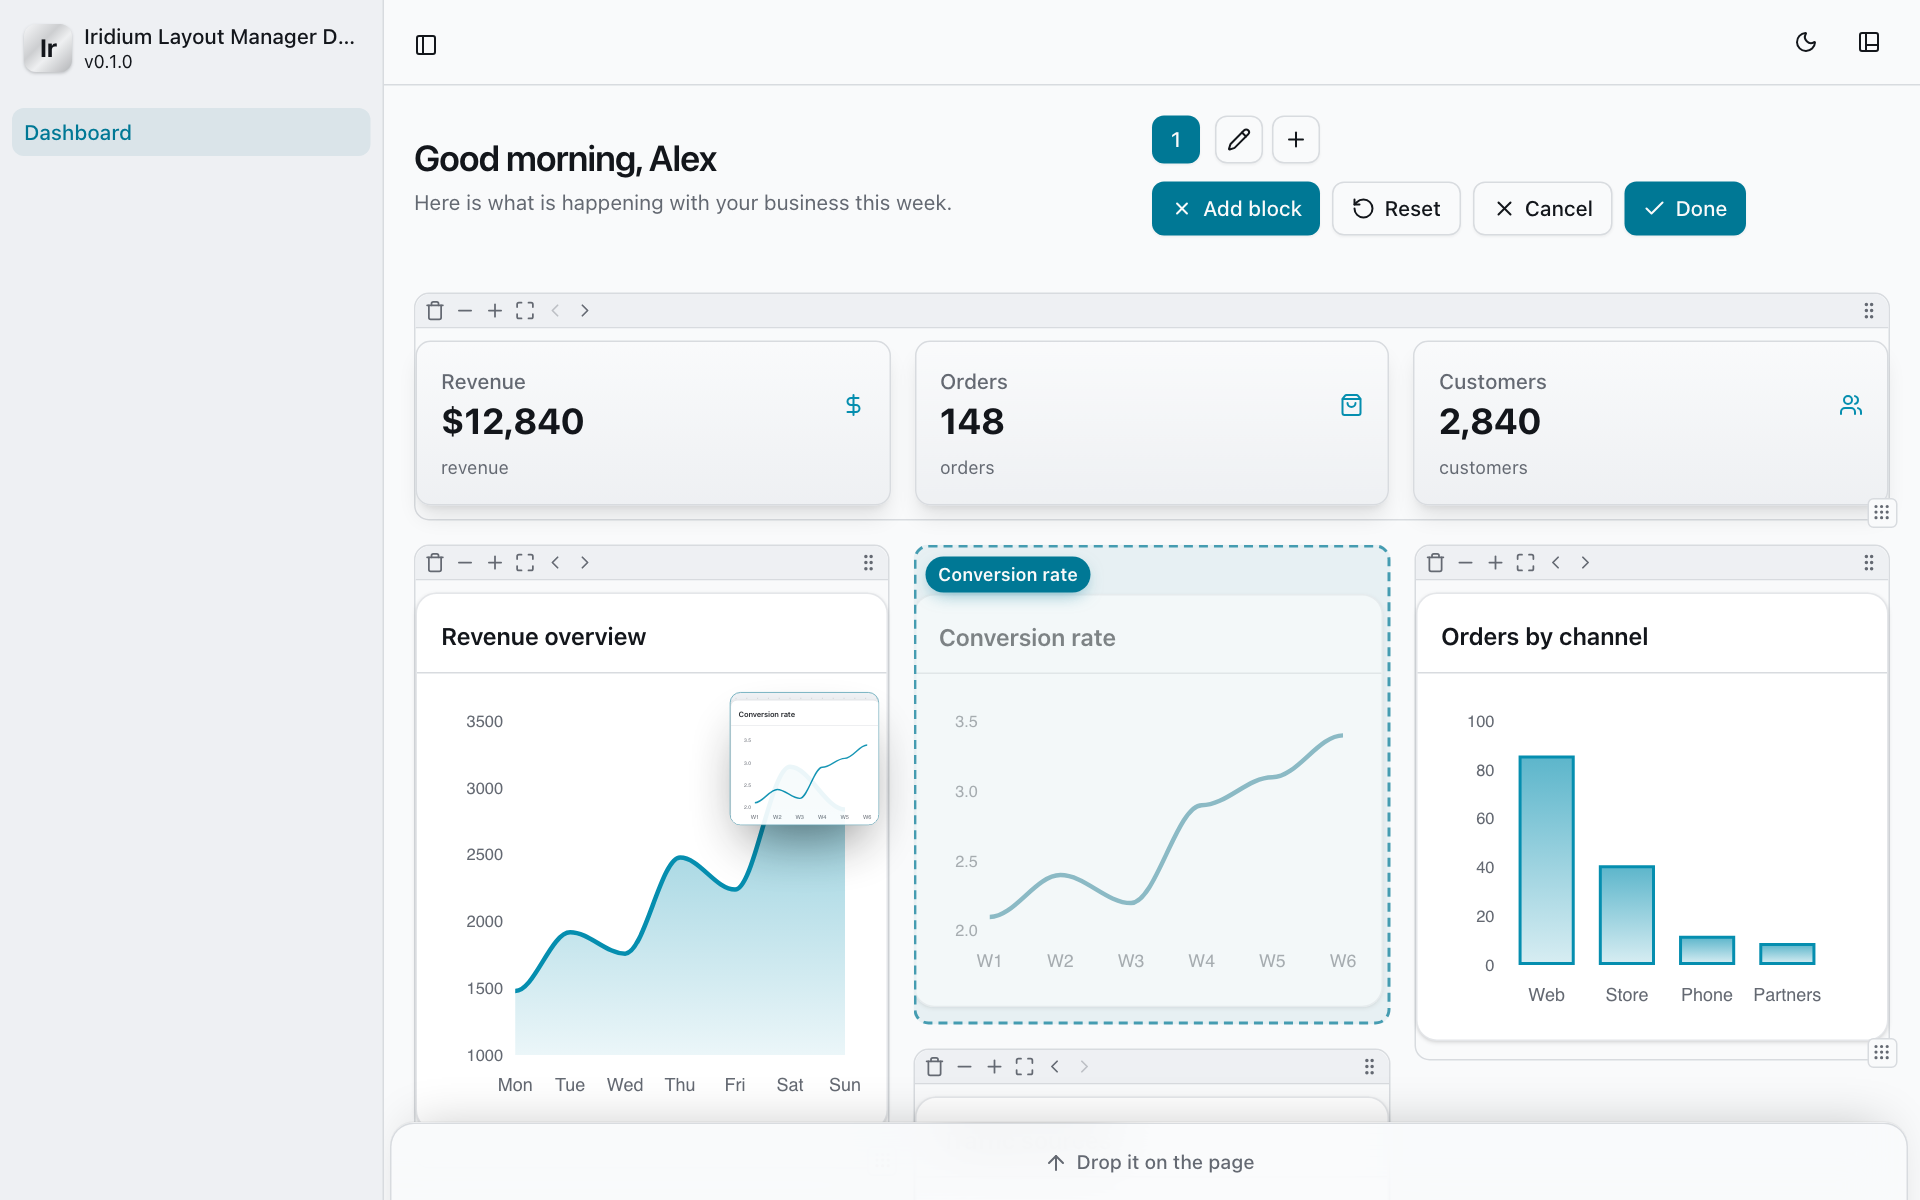
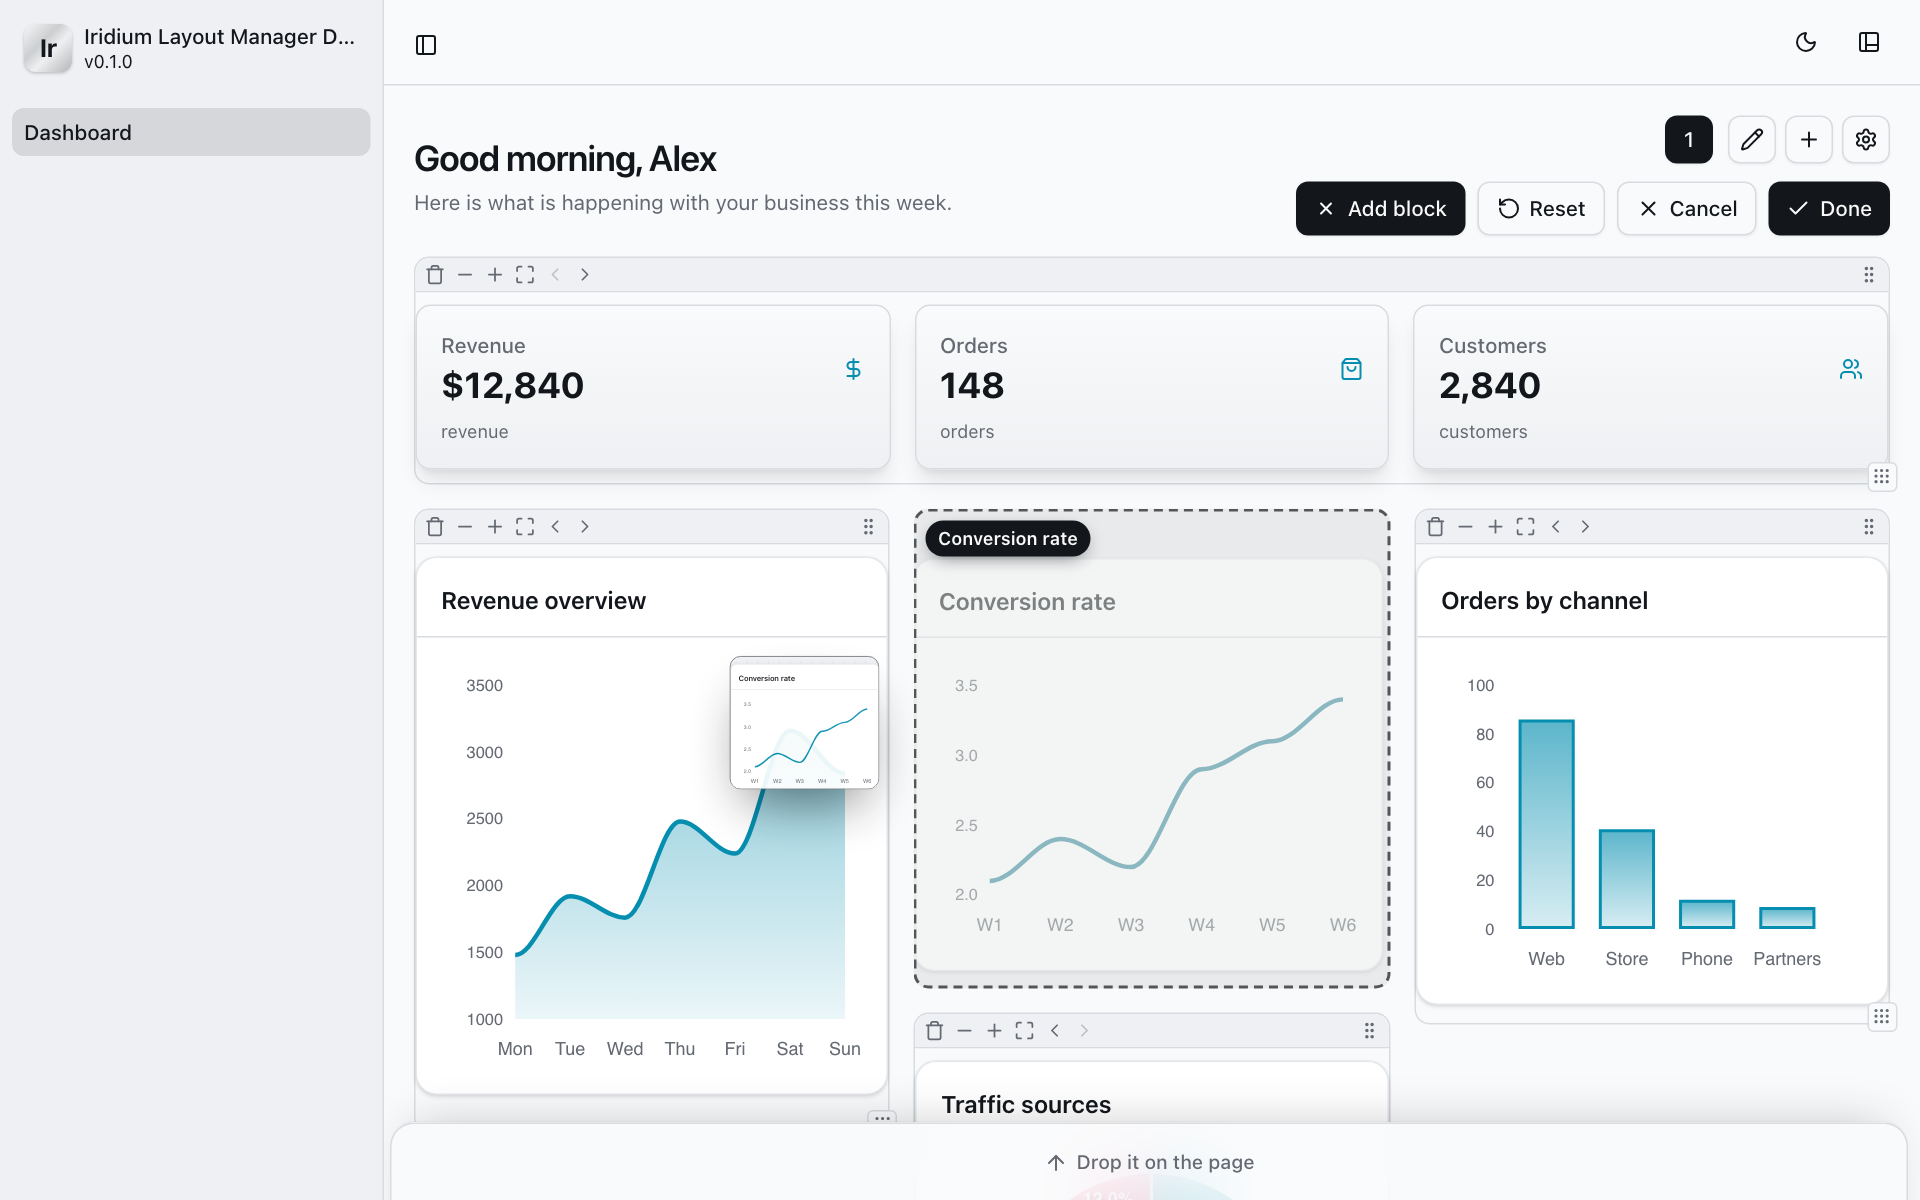
Show the page settings and the new header in the README
The gallery and drag screenshots are taken again from the demo app, which
has the page settings on: the toolbar's rows keep to the right edge, with
the gear after the page buttons, and the grid sits closer below the
header. A third screenshot shows the settings dialog, in the Page settings
section. The editing section counts applying the settings among what
loads a whole grid.

diff --git a/README.md b/README.md
@@ -223,6 +223,8 @@ Compact, Tight or None. A page starts with `GridColumns` and the spacing its
 vertical padding gives. Like any other edit, Done keeps the choice and Reset
 or Cancel undoes it.
 
+![The page settings dialog over a dashboard in edit mode: four columns and compact spacing chosen for the page shown](docs/images/settings.png)
+
 When a page's number of columns changes, a block as wide as the page stays as
 wide as the page; the others keep their span, up to the new number of columns.
 The choices are kept with each page in the `LayoutState`
@@ -273,8 +275,9 @@ Edits change the page in place: remove, resize, move and reorder answer 204
 one new block (placed at `at=I` when a card was dropped before the block at
 index I, else after the last). The other blocks are never re-rendered, so widgets keep their
 state (a table's sort and page, a chart) and focus stays where it was. Only
-switching, adding or removing a page, entering edit mode with unsaved changes,
-and Reset load a whole grid. Renaming a page answers the name kept.
+switching, adding or removing a page, applying the page settings, entering
+edit mode with unsaved changes, and Reset load a whole grid. Renaming a page
+answers the name kept.
 
 Drag-to-reorder uses the Alpine Sort plugin that Iridium's core JS bundle
 already ships with. After a drop the page posts the order the grid shows
@@ -287,8 +290,8 @@ reloads the stored order.
 `go run ./cmd/demo` serves a showcase panel at
 http://127.0.0.1:8088/admin/dashboard (`DEMO_PORT` picks another port): ten
 blocks to arrange, among them Iridium charts, stats and tables, a static
-note and a dynamic block that uses `IsPreview`. The screenshots above are
-of it.
+note and a dynamic block that uses `IsPreview`, with the page settings on.
+The screenshots above are of it.
 
 `go test ./...` runs the integration tests: real Iridium panel routes over
 HTTPS, with CSRF and encrypted session cookies, through the test app in
